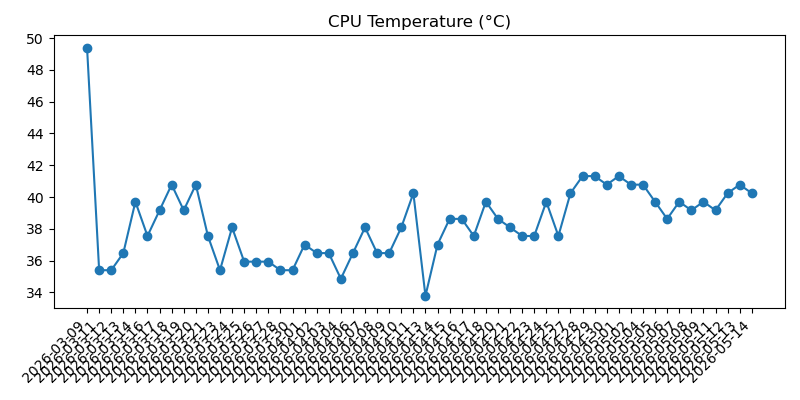
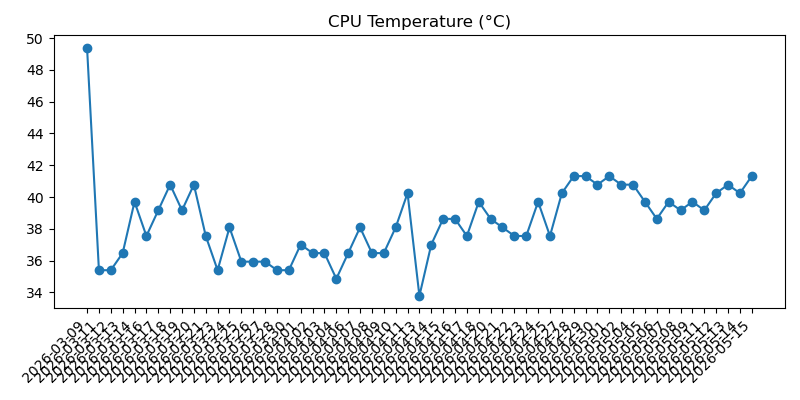
Add daily health and weather snapshot

Changed region(s): [[0.0625, 0.78, 0.9375, 0.96], [0.1562, 0.42, 0.9688, 0.75]]

diff --git a/2026-05.md b/2026-05.md
@@ -408,3 +408,37 @@
 - Overall: Warning
 - Warning: Power issue detected: Undervoltage has occurred; Throttling has occurred
 
+## 2026-05-15 15:35:42
+
+### Machine
+- Uptime: up 3 weeks, 3 days, 17 hours, 21 minutes
+- CPU load (1m, 5m, 15m): 0.00, 0.00, 0.00
+- RAM used: 165 MB / 921 MB (18.0%)
+- Disk used (/): 3.5 GB / 28.8 GB (12.2%)
+- Free disk space (/): 24.1 GB
+- CPU temp: 41.3°C
+- Voltage / throttling: Undervoltage has occurred; Throttling has occurred
+
+### Reachability
+- Internet check (1.1.1.1): Reachable (4.3 ms)
+
+### Weather
+- Madrid:
+  - Condition: Nuboso con tormenta y lluvia escasa
+  - Max temp: 16°C
+  - Min temp: 9°C
+  - Feels like: 14°C
+  - Chance of rain: 90%
+  - Warnings: None reported
+- Barcelona:
+  - Condition: Nuboso con tormenta
+  - Max temp: 20°C
+  - Min temp: 14°C
+  - Feels like: 16°C
+  - Chance of rain: 100%
+  - Warnings: None reported
+
+### Health
+- Overall: Warning
+- Warning: Power issue detected: Undervoltage has occurred; Throttling has occurred
+
